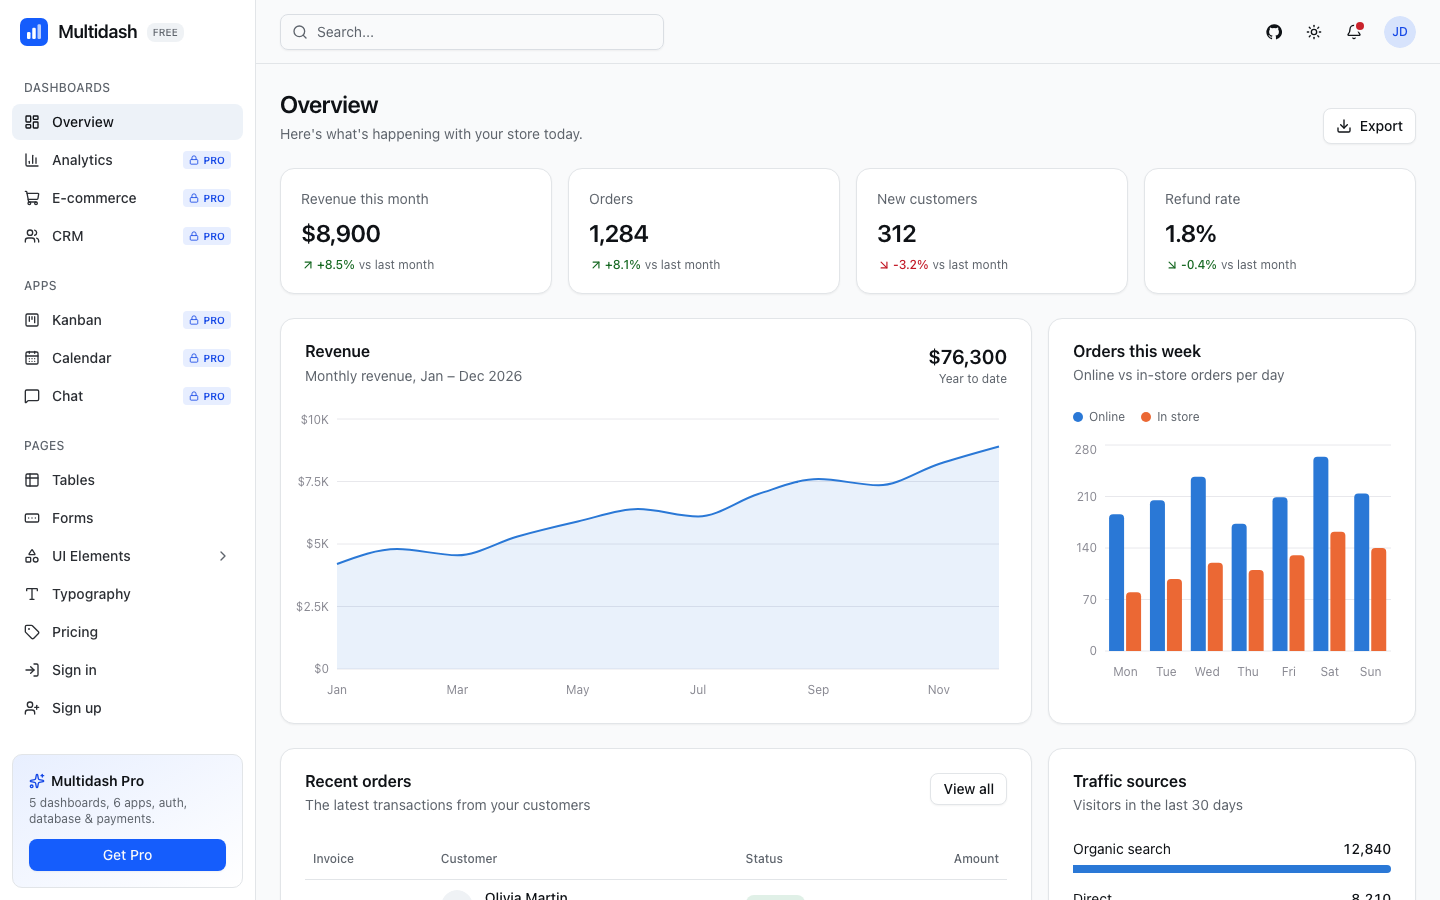
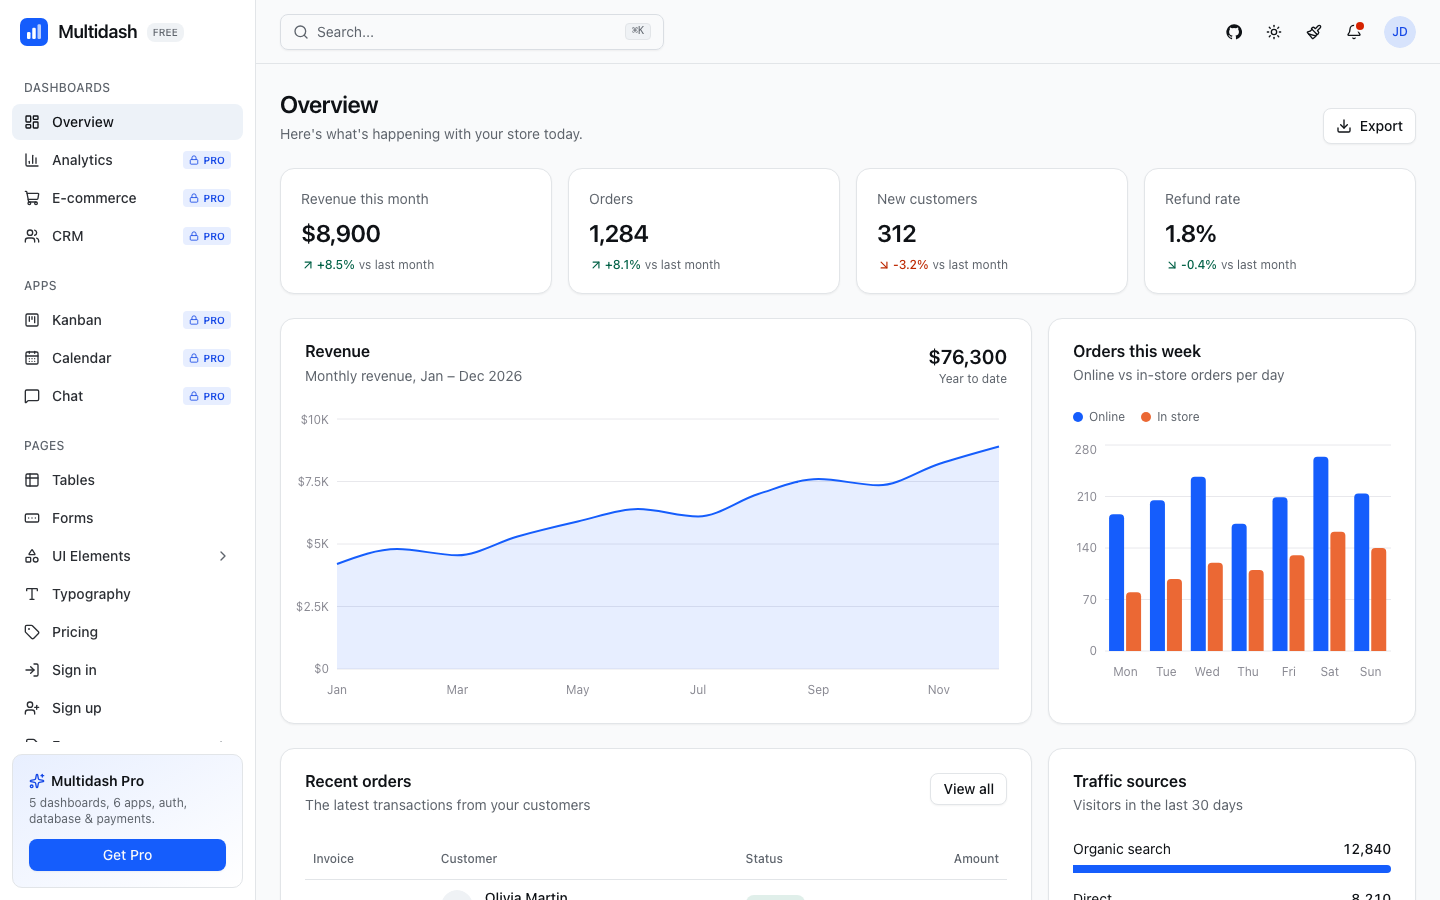
Align chart blues with the primary color
- Revenue area chart and traffic source bars use --primary, so they follow
  the theme customizer
- --chart-1 moves to Tailwind blue-600 (light) / blue-500 (dark); the
  categorical palette still passes the colorblind-safety validator
- Open Graph bars, README screenshots and social preview regenerated

Changed region(s): [[0.75, 0.4978, 0.9688, 0.7156], [0.75, 0.9333, 0.9688, 0.9956], [0.875, 0.0311, 0.9062, 0.0622]]

diff --git a/packages/ui/src/styles/globals.css b/packages/ui/src/styles/globals.css
@@ -64,8 +64,8 @@
   --sidebar-accent-foreground: oklch(0.18 0.01 260);
   --sidebar-border: oklch(0.92 0.006 250);
 
-  /* Charts */
-  --chart-1: #2a78d6;
+  /* Charts — a colorblind-safe categorical order for multi-series charts. Single-series charts use --primary. */
+  --chart-1: #155dfc; /* blue-600 */
   --chart-2: #eb6834;
   --chart-3: #1baf7a;
   --chart-4: #eda100;
@@ -116,7 +116,7 @@
   --sidebar-accent-foreground: oklch(0.97 0 0);
   --sidebar-border: oklch(1 0 0 / 10%);
 
-  --chart-1: #3987e5;
+  --chart-1: #2b7fff; /* blue-500 */
   --chart-2: #d95926;
   --chart-3: #199e70;
   --chart-4: #c98500;

diff --git a/apps/demo/components/charts/revenue-chart.tsx b/apps/demo/components/charts/revenue-chart.tsx
@@ -42,9 +42,9 @@ export function RevenueChart({ data }: { data: Point[] }) {
           <Area
             type="monotone"
             dataKey="revenue"
-            stroke="var(--chart-1)"
+            stroke="var(--primary)"
             strokeWidth={2}
-            fill="var(--chart-1)"
+            fill="var(--primary)"
             fillOpacity={0.1}
             isAnimationActive={!reducedMotion}
             activeDot={{ r: 5, strokeWidth: 2, stroke: "var(--card)" }}

diff --git a/apps/demo/components/dashboard/traffic-sources.tsx b/apps/demo/components/dashboard/traffic-sources.tsx
@@ -16,7 +16,7 @@ export function TrafficSources({ data }: { data: Source[] }) {
           </div>
           <div className="h-2 w-full">
             <div
-              className="h-full rounded-r-[4px] bg-chart-1"
+              className="h-full rounded-r-[4px] bg-primary"
               style={{ width: `${(d.visitors / max) * 100}%` }}
               title={`${d.source}: ${formatNumber(d.visitors)} visitors`}
             />

diff --git a/apps/demo/app/opengraph-image.tsx b/apps/demo/app/opengraph-image.tsx
@@ -16,7 +16,7 @@ const colors = {
   border: "#2a2b30",
   text: "#f5f5f6",
   muted: "#9b9ca3",
-  blue: "#3987e5",
+  blue: "#2b7fff",
   orange: "#d95926",
   green: "#22c55e",
 }

diff --git a/CHANGELOG.md b/CHANGELOG.md
@@ -37,6 +37,7 @@ The format is based on [Keep a Changelog](https://keepachangelog.com/en/1.1.0/),
 
 ### Changed
 
+- Single-series charts (revenue area, traffic sources) use `--primary` and follow the customizer; the multi-series chart palette starts with Tailwind blue (validated colorblind-safe in both themes)
 - Status colors follow a new palette: info (Tailwind sky), success (Tailwind emerald), warning (#F59200 amber) and error (#FF4F1A orange-red), mapped per theme to shades that keep WCAG AA contrast
 - Primary color now uses the Tailwind CSS blue scale — blue-600 for fills and buttons, blue-700 (light) / blue-400 (dark) for text — across the UI, app icon, manifest and Open Graph image
 - UI Elements is a collapsible sidebar sub-menu listing every component; it opens automatically inside the section and scrolls the current page into view. The index page becomes an Introduction with installation steps

diff --git a/README.md b/README.md
@@ -1,7 +1,7 @@
 # Multidash
 
-[![Release](https://img.shields.io/github/v/release/hasraltechno/multidash?color=2a78d6)](https://github.com/hasraltechno/multidash/releases)
-[![License: MIT](https://img.shields.io/github/license/hasraltechno/multidash?color=2a78d6)](LICENSE)
+[![Release](https://img.shields.io/github/v/release/hasraltechno/multidash?color=155dfc)](https://github.com/hasraltechno/multidash/releases)
+[![License: MIT](https://img.shields.io/github/license/hasraltechno/multidash?color=155dfc)](LICENSE)
 [![Live demo](https://img.shields.io/badge/demo-live-1baf7a)](https://multidash-app.vercel.app)
 [![Next.js](https://img.shields.io/badge/Next.js-16-black?logo=next.js)](https://nextjs.org)
 [![Tailwind CSS](https://img.shields.io/badge/Tailwind_CSS-v4-38bdf8?logo=tailwindcss&logoColor=white)](https://tailwindcss.com)
